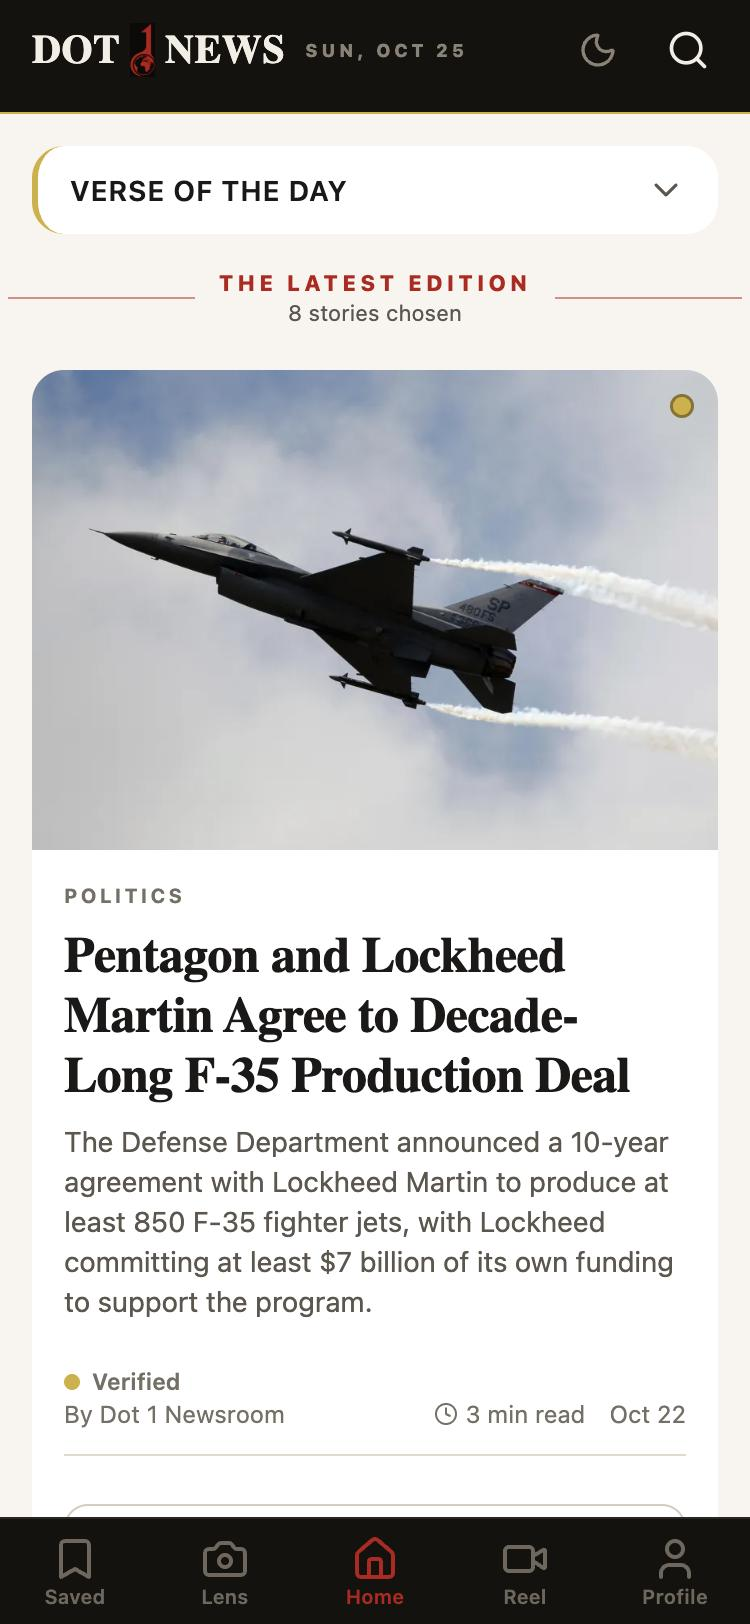
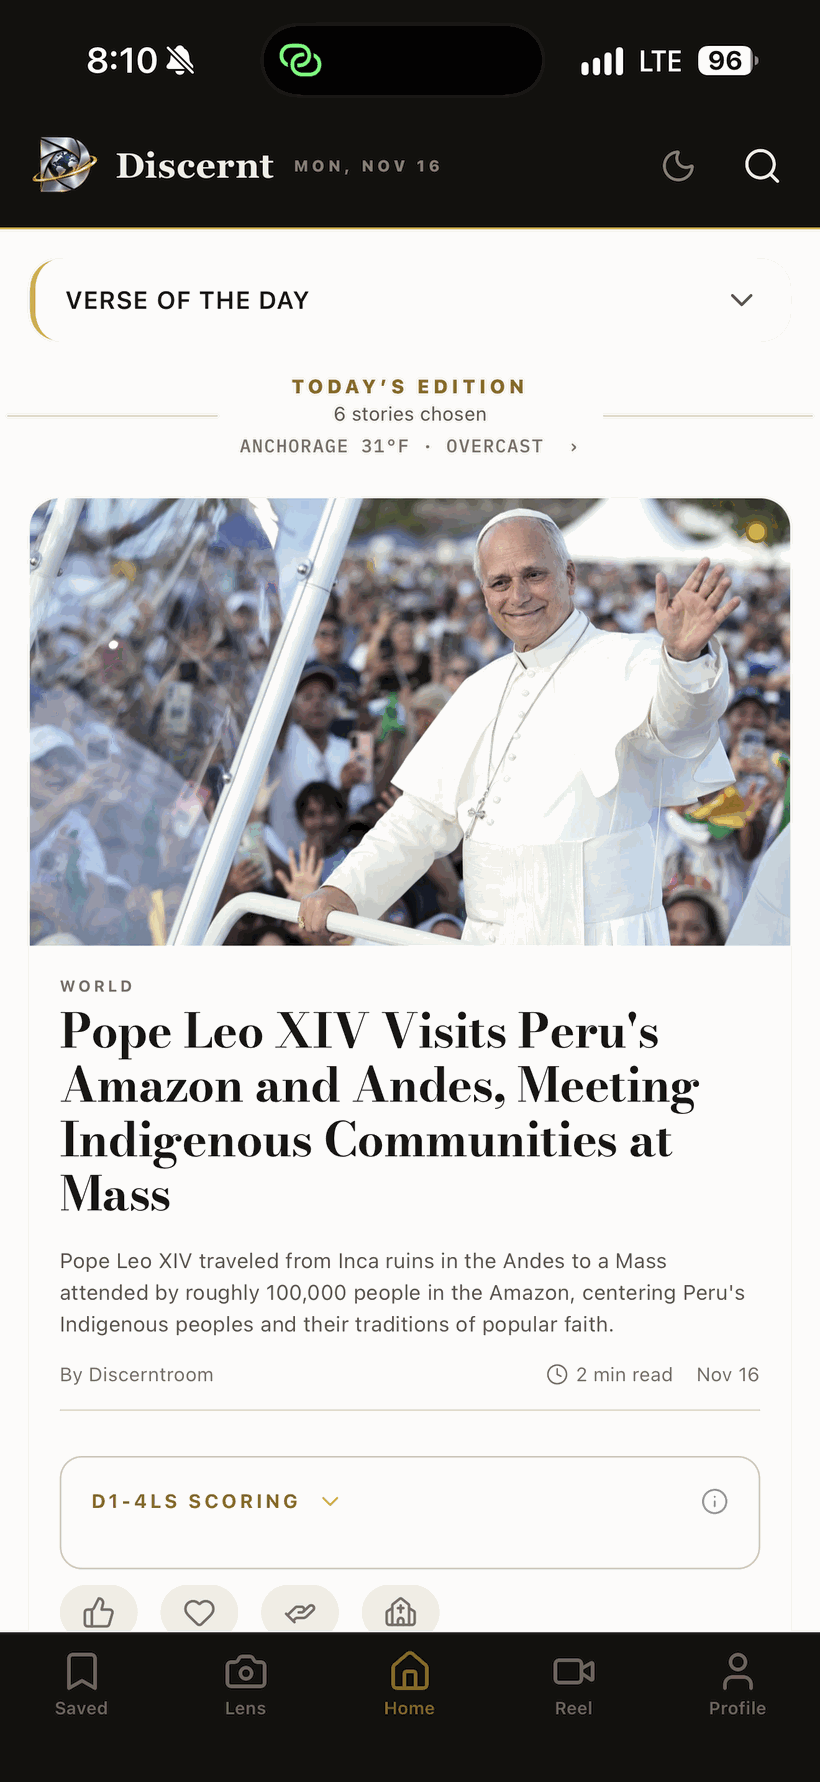
Swap phone mockups to new Discernt app screenshots
- images/01-03.png replaced with the rebranded app: today's edition (home
  hero), article read view, and the D1-4LS SG/KS/SC/FE scoring radar.
  Resized to 820w and palette-optimized (1.3MB -> 358KB on the heaviest).
- Bump index.html cache-buster ?v=3 -> ?v=4 so browsers refetch
- portal.html preview screens now point at the local rebranded images

Claude-Session: https://claude.ai/code/session_01THoYo4bvVdNcEHEaBgozSc

diff --git a/index.html b/index.html
@@ -1227,9 +1227,9 @@ footer{border-top:1px solid var(--line);padding:44px 0 54px;background:var(--ink
         <div>
           <div class="phone">
             <div class="phone-screen" id="phoneScreen">
-              <img class="active" data-slot="screen1" src="images/01.png?v=3" alt="Discernt app, today's edition">
-              <img data-slot="screen2" src="images/02.png?v=3" alt="Discernt app, article view">
-              <img data-slot="screen3" src="images/03.png?v=3" alt="Discernt app, D1-4LS story scoring">
+              <img class="active" data-slot="screen1" src="images/01.png?v=4" alt="Discernt app, today's edition">
+              <img data-slot="screen2" src="images/02.png?v=4" alt="Discernt app, article view">
+              <img data-slot="screen3" src="images/03.png?v=4" alt="Discernt app, D1-4LS story scoring">
             </div>
           </div>
           <div class="phone-dots" id="phoneDots" role="tablist" aria-label="App screenshots">

diff --git a/portal.html b/portal.html
@@ -190,9 +190,9 @@ textarea{width:100%;height:260px;background:#0a0908;border:1px solid var(--line)
     youtubeId: 'zMpii5i4c0s',
     appIcon: 'images/discernt-app-icon.png',
     appStoreBadge: 'images/AppStore.png',
-    screen1: CDN + '87508fb2-0f5a-42b7-ad2e-91f31349348e/01.png?format=800w',
-    screen2: CDN + 'f18bc63f-49c2-493e-bb69-29d3373ffd07/02.png?format=800w',
-    screen3: CDN + '2e450caa-79b2-4678-b1bf-d30475586ddd/03.png?format=800w',
+    screen1: 'images/01.png',
+    screen2: 'images/02.png',
+    screen3: 'images/03.png',
     teamDennis: CDN + '408eb4e3-2d4e-4203-9078-b44315680c3b/ZaddyFall2025-29.jpeg?format=1200w',
     teamBrittany: CDN + '950f5f5f-e331-48cc-bab9-c9101feaab8f/me2025-29.jpeg?format=1200w',
     bookCover: '',
